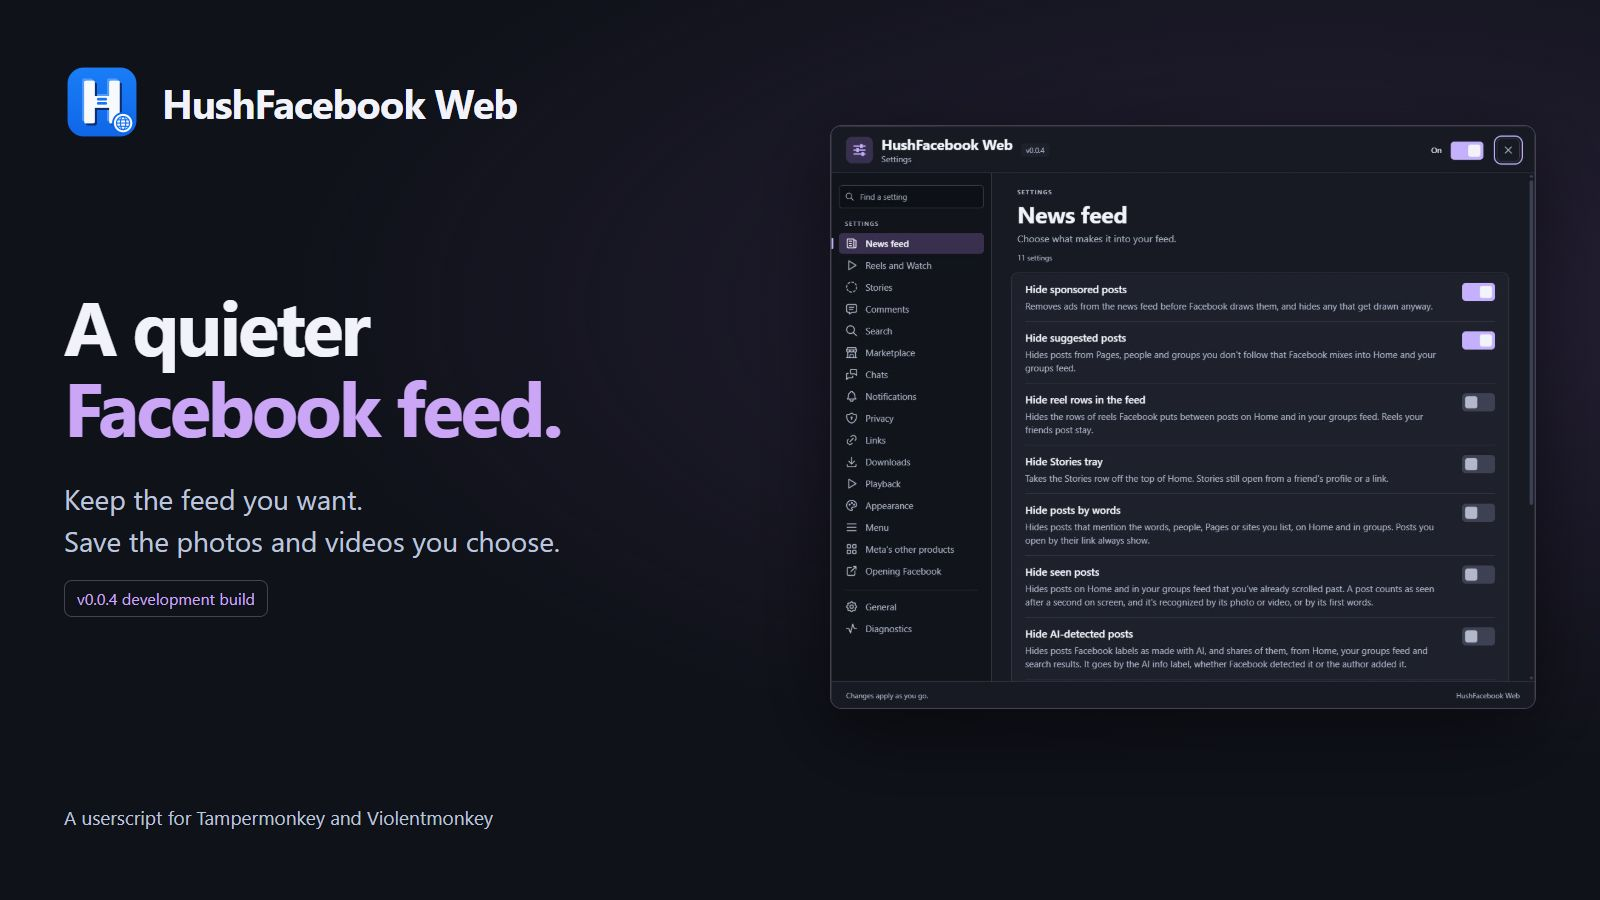
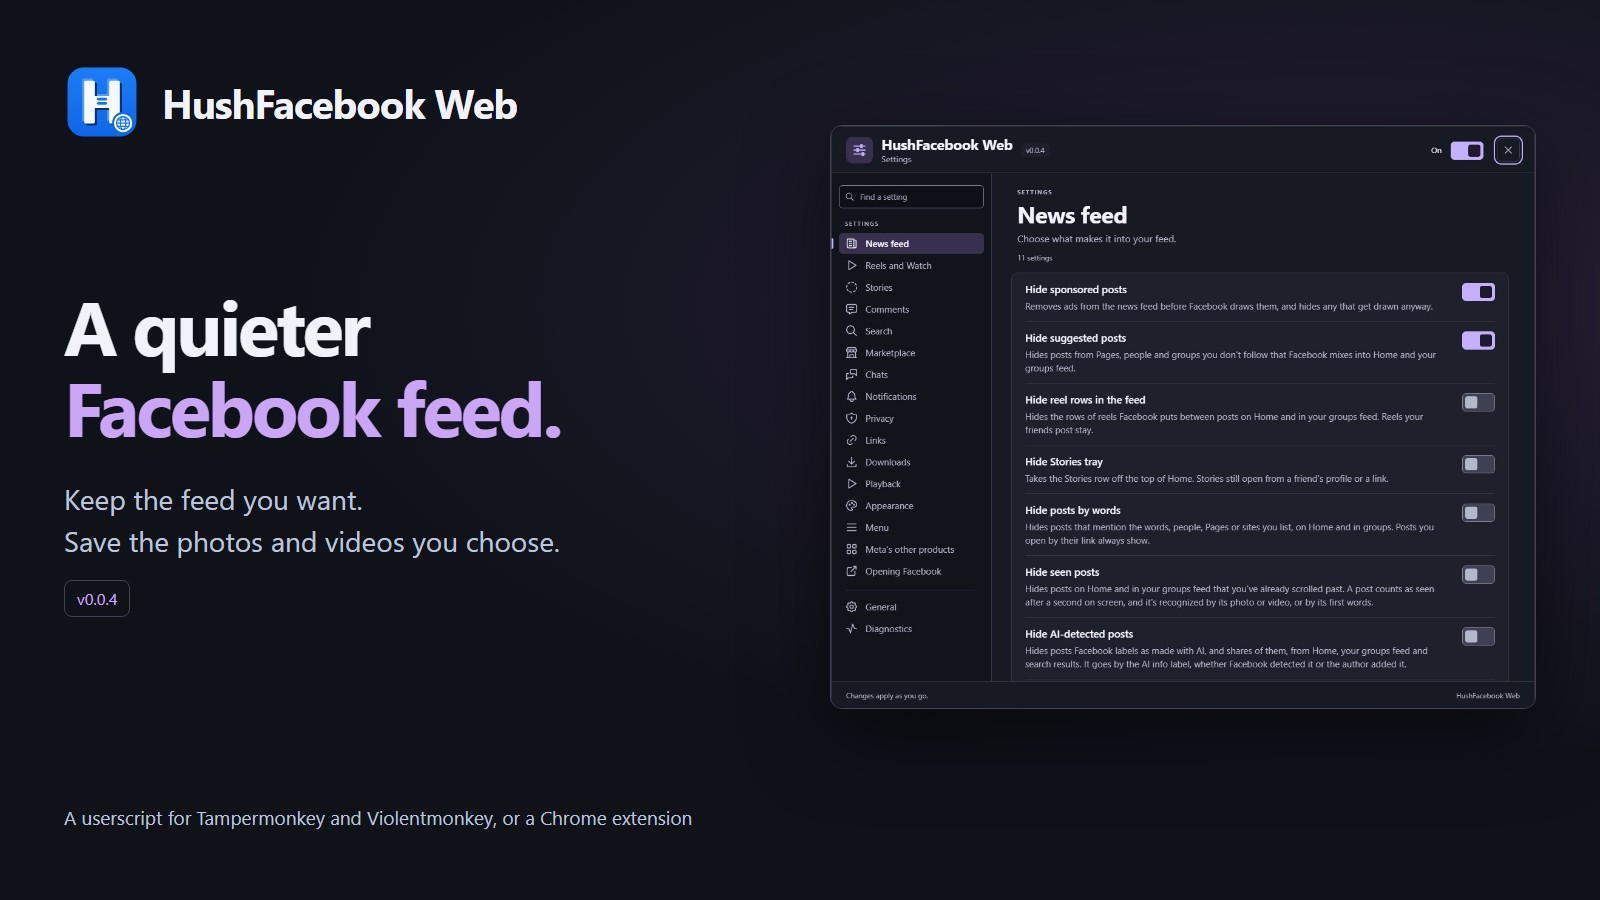
chore(release): v0.0.4
The Unreleased section becomes v0.0.4 (2026-10-18), with a line naming
the issue reports this release changes something for. The README now
calls 0.0.4 the latest release and the first one with the extension zip.
The two settings screenshots and the hero are retaken from the current
panel, which has the Language row and the higher contrast switch knob.

Refs #1, #2, #3

diff --git a/CHANGELOG.md b/CHANGELOG.md
@@ -1,6 +1,6 @@
 # Changelog
 
-## Unreleased
+## v0.0.4 (2026-10-18)
 
 * General has a Language choice now. The panel and every notice the script raises read from one list of phrases with English as the fallback, so a translation can drop in without touching anything else. No translation ships yet. Two test layouts stand in for one. Long text accents every letter and makes each phrase about 40% longer, and right to left mirrors the panel while keeping the English readable. Search still finds a setting by its English words whatever the language. The log and Copy report stay in English, and so do the values in Diagnostics. Facebook's own language doesn't change the choice. A backup keeps it, and Reset to defaults leaves it alone. At phone width the search box now grows to fit a longer phrase. Checked in Chromium at 320, 360, 640 and 1024 px in English and both test layouts, across every section, Diagnostics, search, a field error, an error notice and the recovery cards. Nothing spilled sideways or got cut off, apart from one long choice in a closed dropdown that ends in an ellipsis at phone width, and no phrase skipped the list. Not tried in Firefox or with a real translation yet.
 * Requests that HushFacebook Web holds back or answers itself now behave like real ones when Facebook's code watches them. They used to jump from sent straight to done, with none of the steps in between and no response header. A finished or cancelled one also took changes a real request turns down. Now each one goes through every step a browser shows, in the same order, and refuses the same things. In Chromium a request held while your settings load used to show Facebook its start twice, and it shows it once now. Checked in Chromium 155 and Firefox 156 against an untouched request answered by a local server with the same text. Where the two browsers disagree, it follows the XHR standard, which one of them always does. Not tried on Facebook itself yet.
@@ -75,8 +75,8 @@
 * Settings actions show when they're working, ignore repeated clicks and report failures. Restore and report copying return to their usual state when they finish.
 * v0.0.4 adds an experimental Block Instant Games ads switch. It uses the game's no-ad response, stays off by default and follows changes from Facebook through manager storage. Games that require an ad for a reward won't give that reward. Live game acceptance is still open.
 * Hide reel rows in the feed now removes the items from a captured reel row in Facebook's data before it's drawn. Friends' reel posts and other kinds of showcase stay intact. The page-side fallback still needs a live row to check.
-* Settings screenshots and the README banner now show the current development build.
-* The 0.0.3 development build gives all 18 settings sections a new dark layout with a lavender accent, clearer headings and flat rows. Long labels and options wrap in narrow windows, and the power and close buttons stay within reach. Settings open as a native modal, so the page behind them stays inactive. Closing returns focus to the control that opened the panel, and Reset's Undo stays reachable inside it.
+* Settings screenshots and the README banner now show the current panel.
+* All 18 settings sections get a new dark layout with a lavender accent, clearer headings and flat rows. Long labels and options wrap in narrow windows, and the power and close buttons stay within reach. Settings open as a native modal, so the page behind them stays inactive. Closing returns focus to the control that opened the panel, and Reset's Undo stays reachable inside it.
 * Download and Pop out now match the settings panel. They also follow the photo or video when the window resizes, without waiting for the pointer to move.
 * Keep your place in the feed no longer leaves Home stuck on Facebook's loading screen in Tampermonkey. It showed up with Following feed on, since Home then opens on Feeds. The script asked Facebook for its feed refresh limits before the page had a value those limits read as they load, so they failed, and the feed went down with them. Now the script waits for Facebook's own code to load the limits and holds them right after, without ever asking for them. Tried live in Tampermonkey with twenty switches on: Home and Feeds load and scroll, and the limits read back as held. Turned on during a visit, the switch takes effect from the next page load.
 * Show full post dates puts the date in the same row as the time now. On Feeds and the groups feed it used to drop under the time, and Facebook's dot and audience icon sat on top of it. Live on Feeds, Home and the groups feed, each date reads on one line, like "5 hours ago · Oct 11, 2026, 6:26 PM", with the icon after it.
@@ -87,6 +87,7 @@
 * Tap to play no longer freezes Reels. With it on, the first reel after opening Reels from Facebook's menu sat on its first frame, and so did every reel the Next arrow moved to. Facebook draws no play button or caption for a reel it couldn't start, so the page looked broken. In Reels and stories, the reel or story you open or skip to (with the arrows, the arrow keys or the wheel) now plays, and one that would start with nobody touching anything, like a reel picking up again when you come back to the tab, still waits. Videos in the feed still wait for a click on the video. Tried live in Tampermonkey and in the extension with Tap to play on: Reels opened from the menu played, so did each of three skips, a reload, and the skips after it.
 * Force dark mode keeps the selected chip readable on Reels' library page. Facebook draws its own dark area there with the selected chip white and its word in a light theme island, and the script was turning that island dark too, so "Saved" came out white on white. Light islands inside an area Facebook darkened itself now stay as Facebook drew them. Tried live: "Saved" reads dark on its white chip, and the menus and popups the script darkened before still go dark.
 * For anyone building it: the release preflight can run the tests under a memory and time cap. CONTRIBUTING.md has the one setting it needs.
+* Issue reports this release changes something for: #1 asked for the volume switch, #2 was Facebook stuck on gray placeholders in Edge next to another script, and #3 was Home stuck on Facebook's loading screen with Keep your place on in Tampermonkey.
 
 ## v0.0.2 (2026-10-11)
 

diff --git a/README.md b/README.md
@@ -17,7 +17,7 @@
 
 HushFacebook Web is a userscript for Facebook in a desktop browser, and a Chrome extension built from the same code. It's the web sibling of [Hushfacebook](https://github.com/SysAdminDoc/HushFacebook), the patch bundle for the Android app, and it's working toward the same list: a feed without ads or suggested posts, less Meta AI, downloads, privacy switches and playback controls.
 
-It's still early. The current development build is 0.0.4 and the latest published release is 0.0.2. What changed in each build is in the [changelog](CHANGELOG.md), and [docs/feature-parity.md](docs/feature-parity.md) goes through every Hushfacebook patch and says what the web version does with it.
+It's still early. The latest release is 0.0.4. What changed in each build is in the [changelog](CHANGELOG.md), and [docs/feature-parity.md](docs/feature-parity.md) goes through every Hushfacebook patch and says what the web version does with it.
 
 ## Install
 
@@ -37,7 +37,7 @@ Works in Chrome, Edge, Brave and other Chromium browsers from version 120, with 
 2. Open `chrome://extensions` (`edge://extensions` in Edge) and turn on **Developer mode**.
 3. Click **Load unpacked** and pick the unzipped folder.
 
-The extension is new in the development build, so the first release to carry the zip is the one after 0.0.2. Until then, build it yourself (below) and load `dist/extension`.
+0.0.4 is the first release with the extension zip. You can also build it yourself (below) and load `dist/extension`.
 
 ### In Firefox
 
@@ -67,7 +67,7 @@ Settings are in English for now. General has a Language choice that's ready for 
 
 <p>
   <img src="assets/screenshots/panel-feed.jpg" width="49%" alt="News feed settings with an icon sidebar, grouped rows and lavender switches">
-  <img src="assets/screenshots/panel-general.jpg" width="49%" alt="General settings with Quick setups, backup and problem report rows">
+  <img src="assets/screenshots/panel-general.jpg" width="49%" alt="General settings with Quick setups, the Language choice and backup rows">
 </p>
 
 ### What it can do
